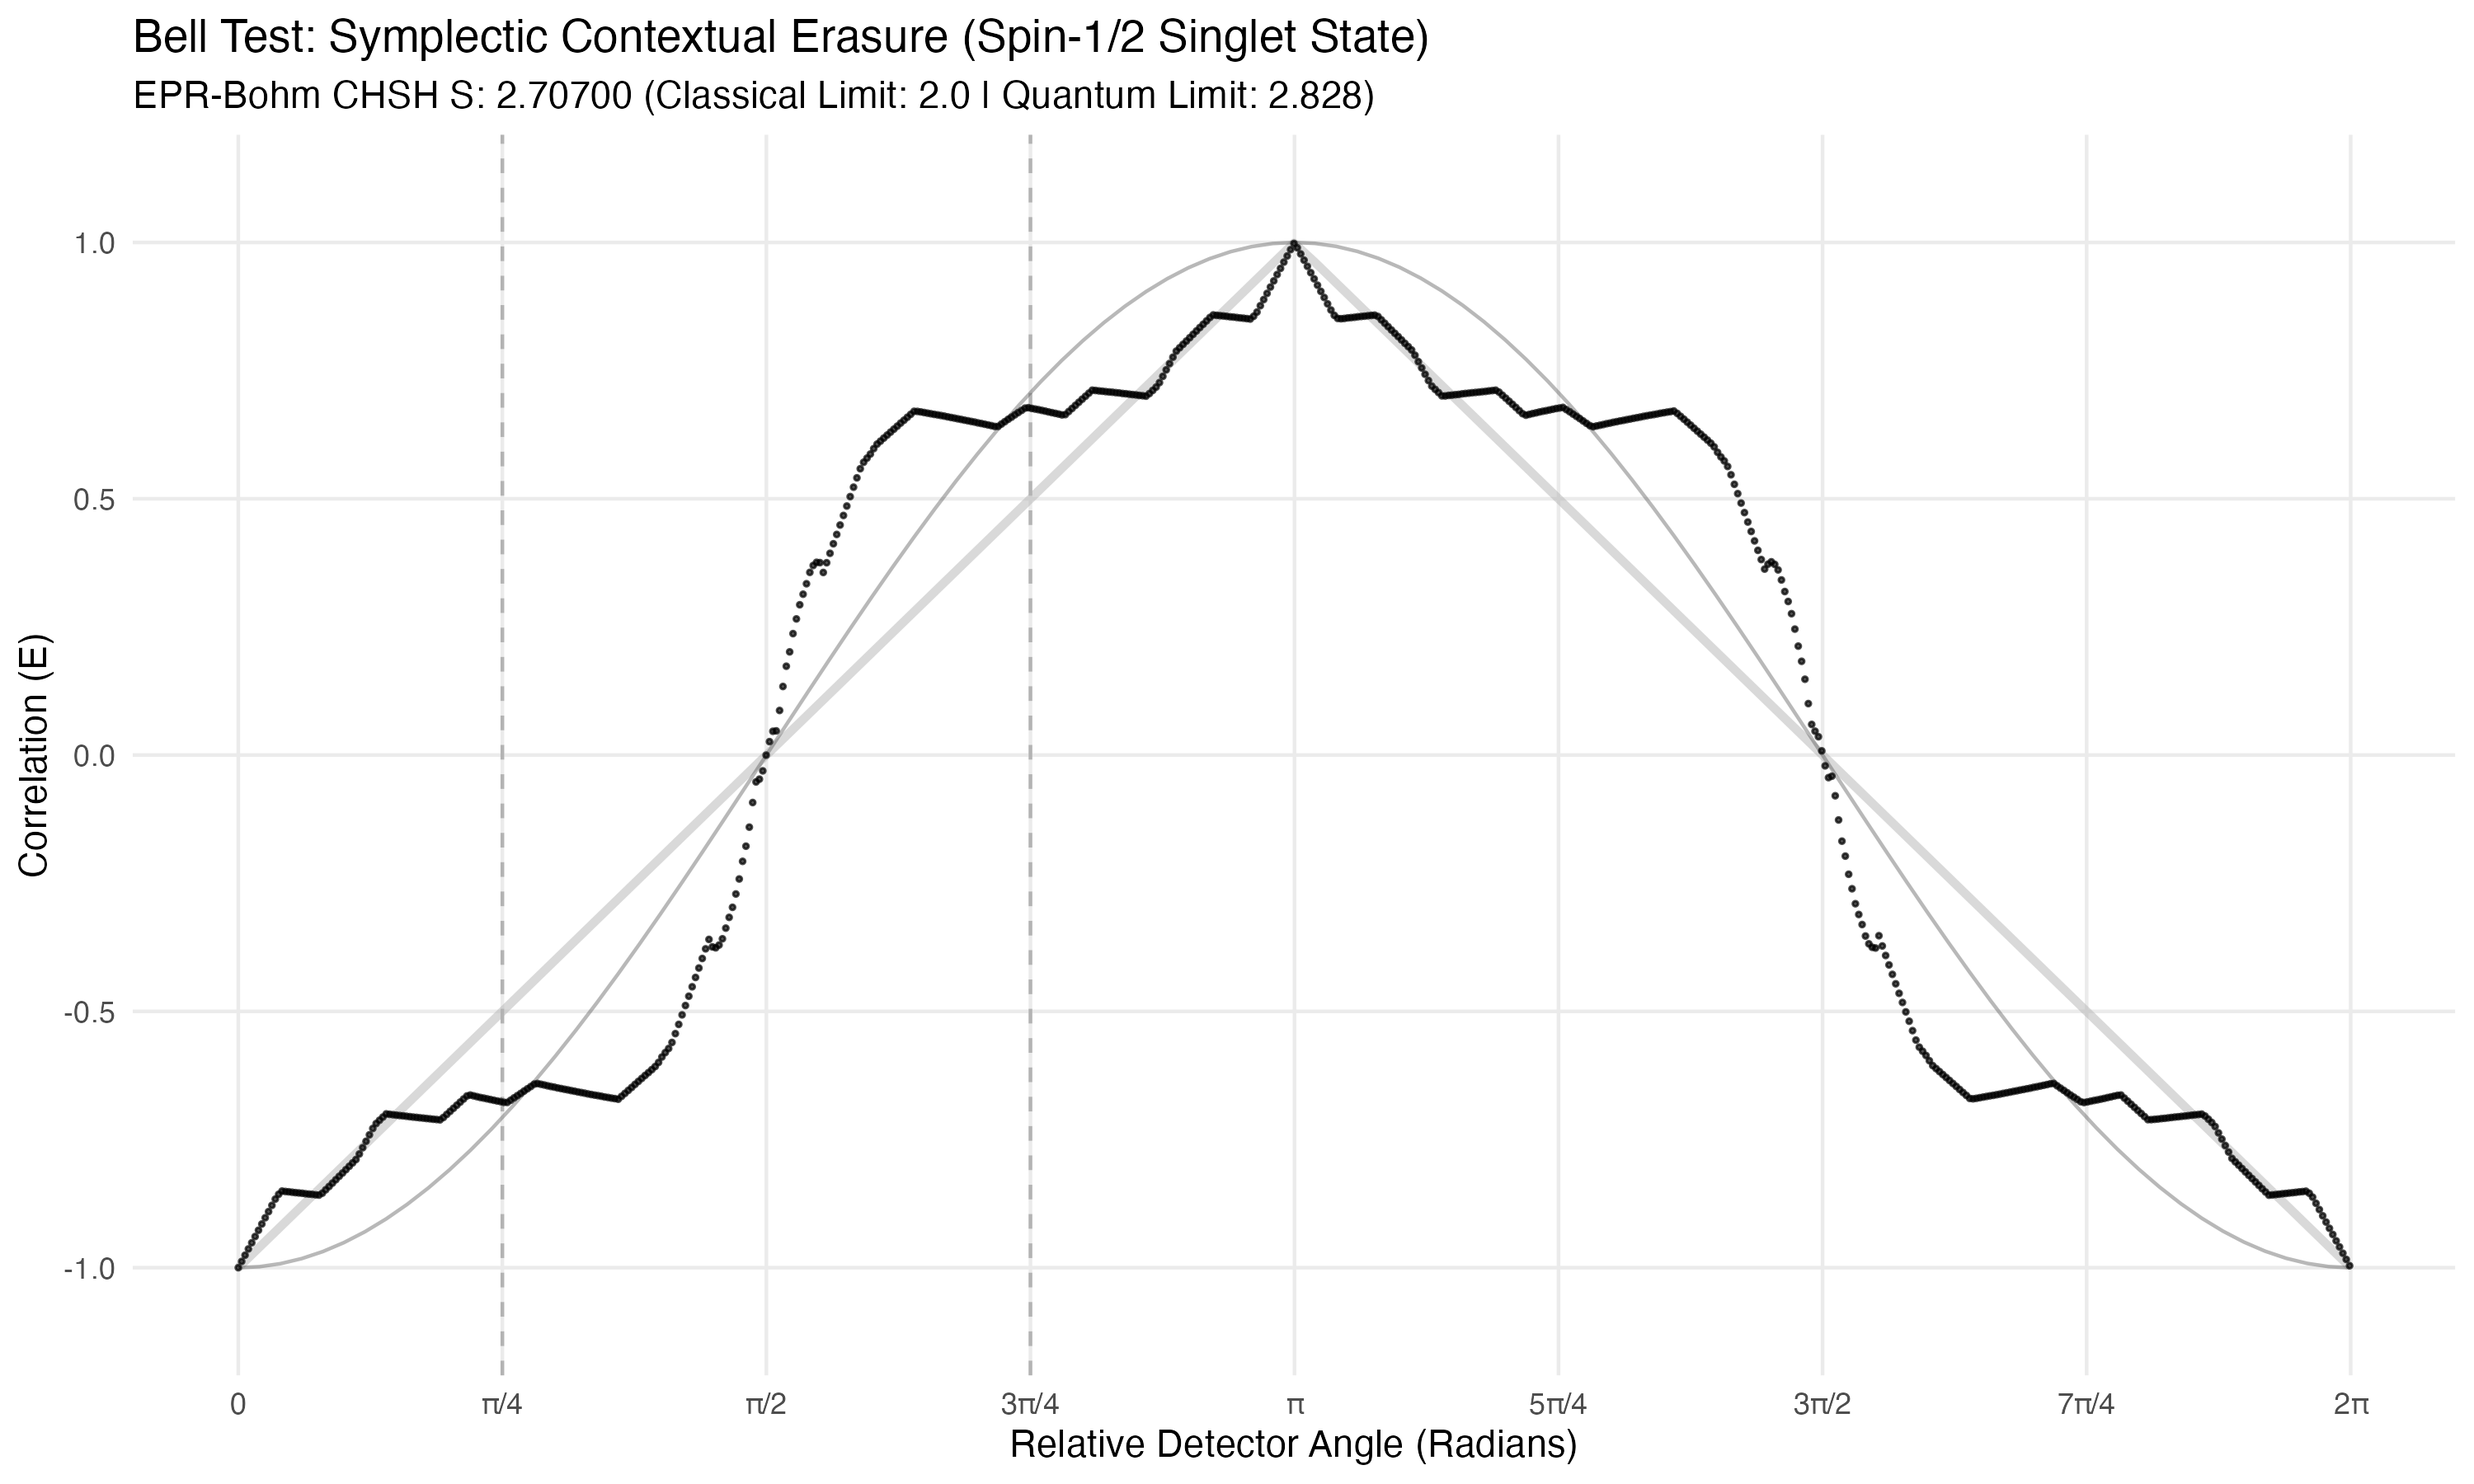
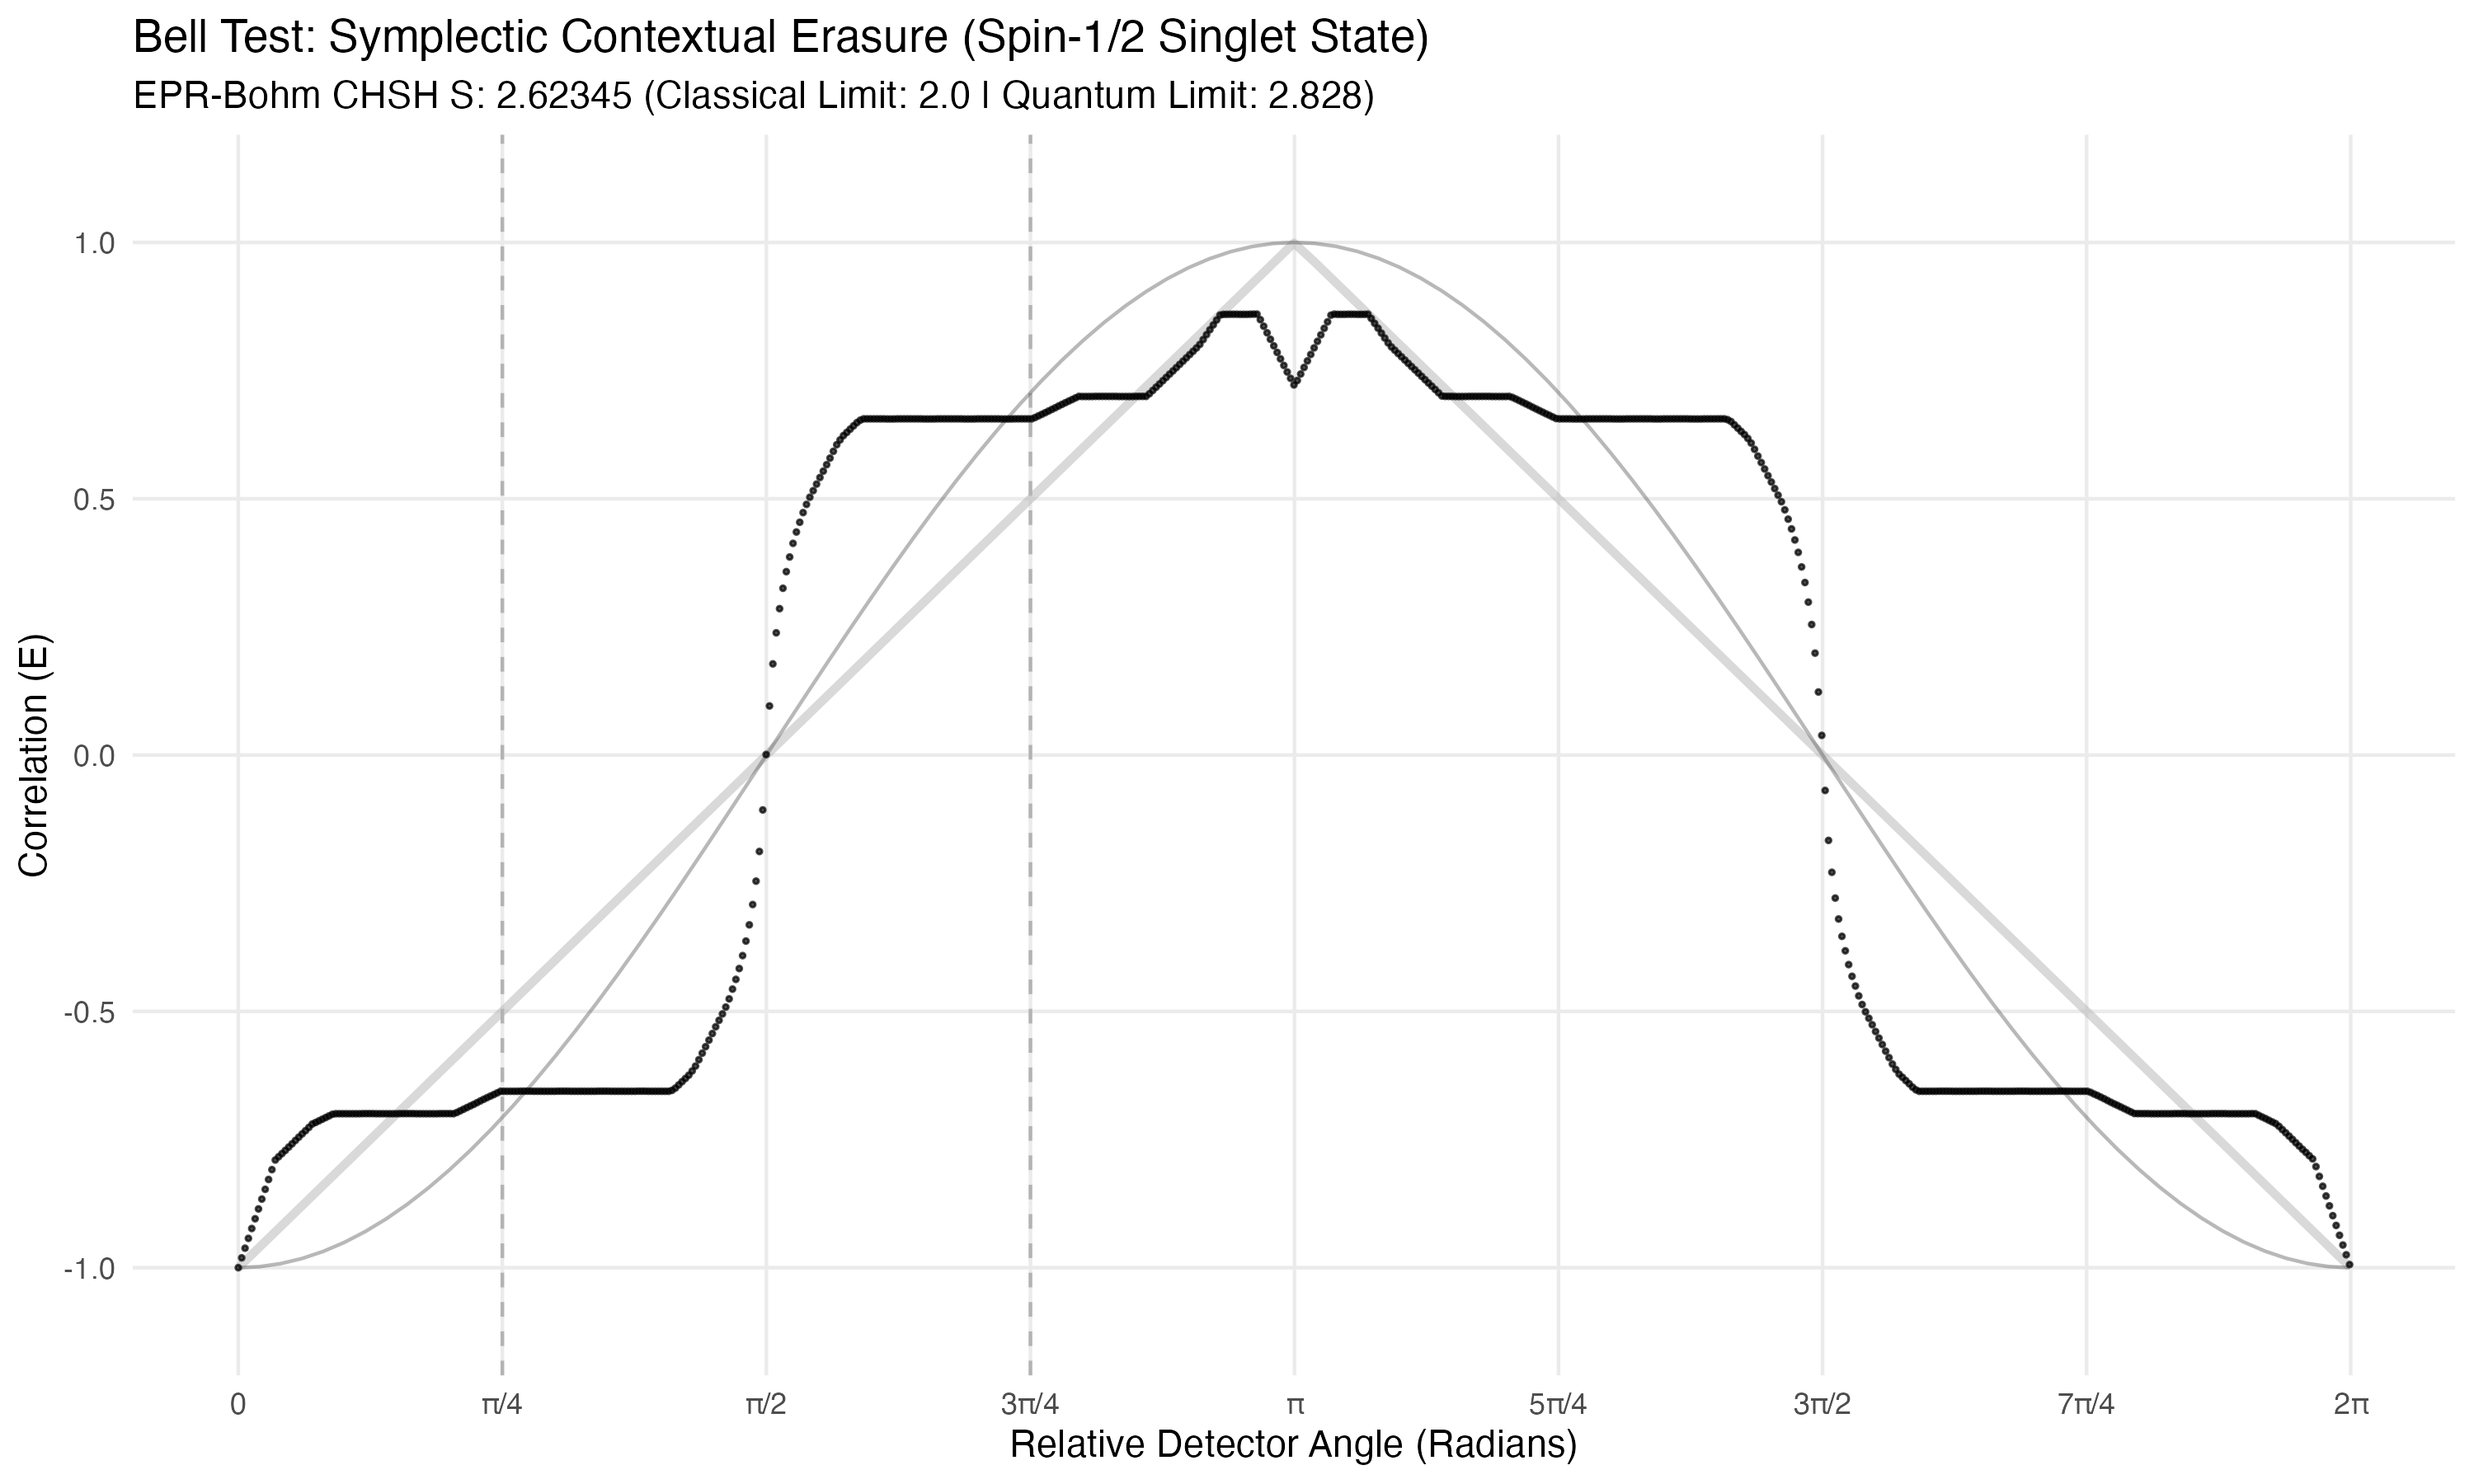
using alpha instead of microstate

diff --git a/src/bell_test_simulator.cpp b/src/bell_test_simulator.cpp
@@ -47,16 +47,15 @@ void micro_macro_bell_erasure_sweep(
         (microstate_particle_angle_end - microstate_particle_angle_start) * ((double)j / (double)(count - 1));
 
       // 1. Contextual Alignment
-      double alpha = detector_angle_rad - microstate;
+      double alpha = std::remainder(detector_angle_rad - microstate, 2.0 * M_PI);
+
       double cos_alpha = std::abs(std::cos(alpha));
 
       // 2. Dynamic Erasure Window
       double delta_phi = (1.0 / 2.0) * ((1.0 / cos_alpha) - 1.0);
 
-      double clamped_microstate = std::remainder(microstate, 2.0 * M_PI);
-
       // 3. Execute Native Erasure
-      EraseResult erasure = erase_single_native(clamped_microstate, delta_phi, max_depth);
+      EraseResult erasure = erase_single_native(alpha, delta_phi, max_depth);
 
       // 4. Map to Macrostates
       // No phase inversions here; pure raw output.
